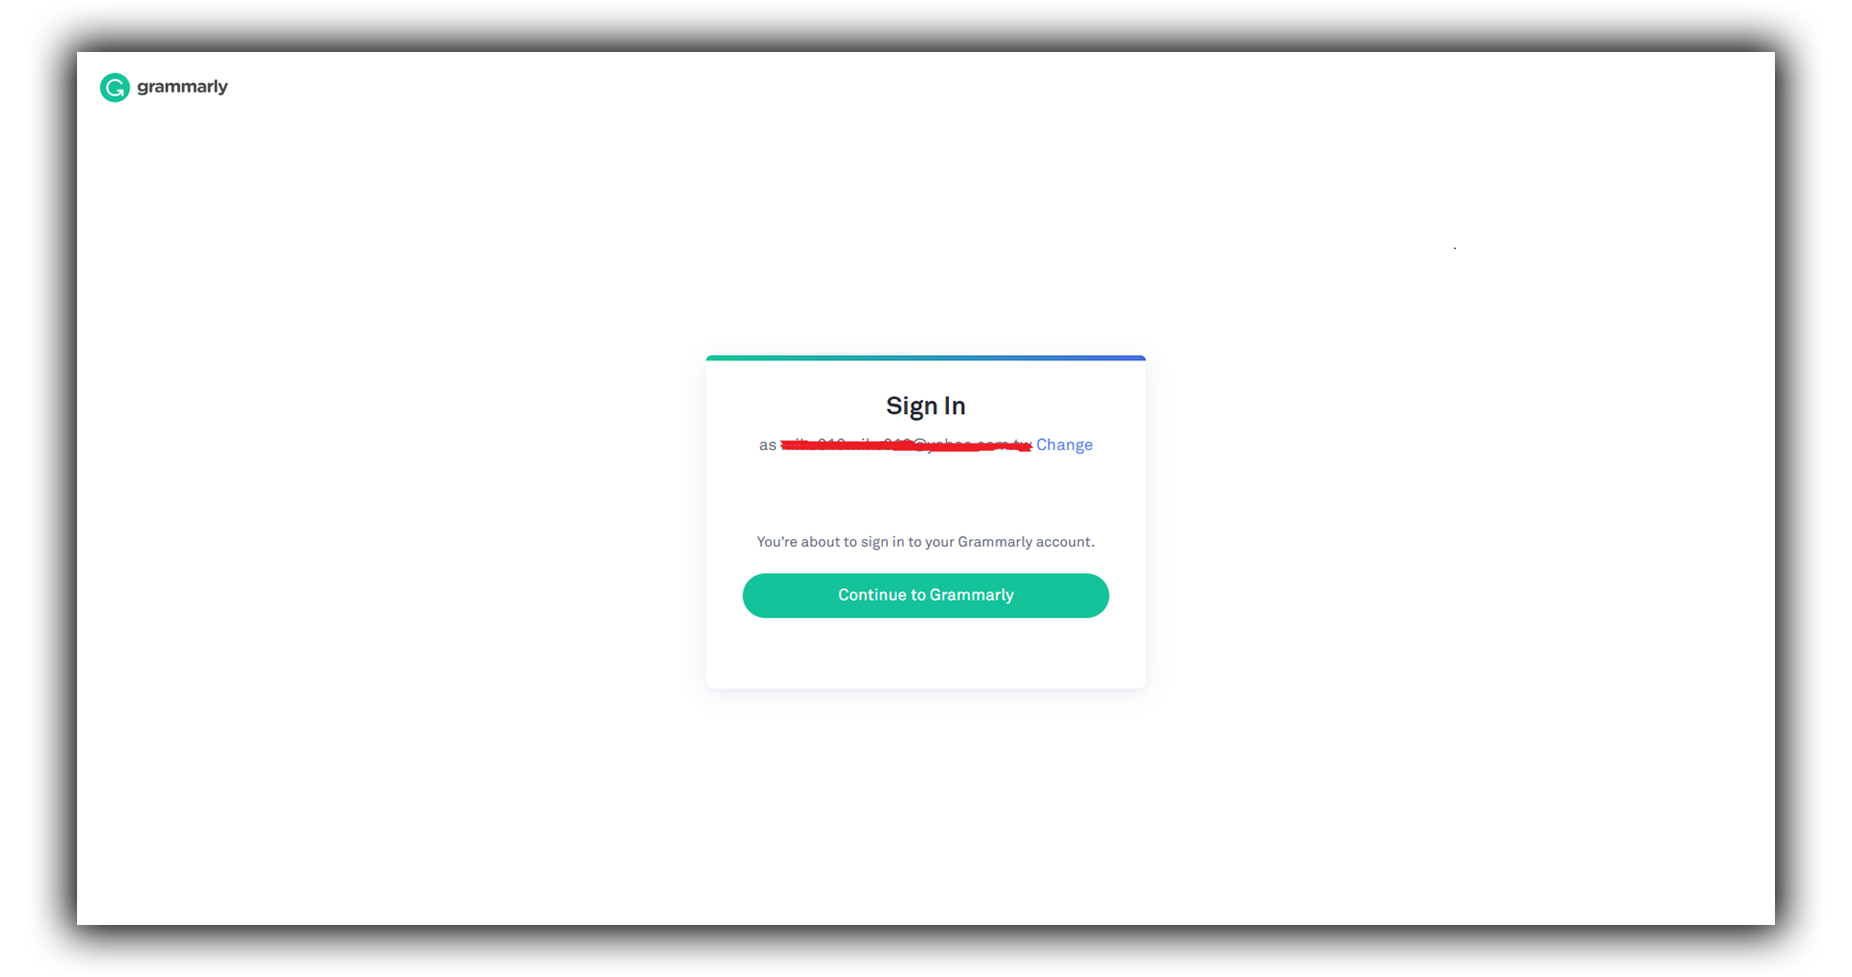
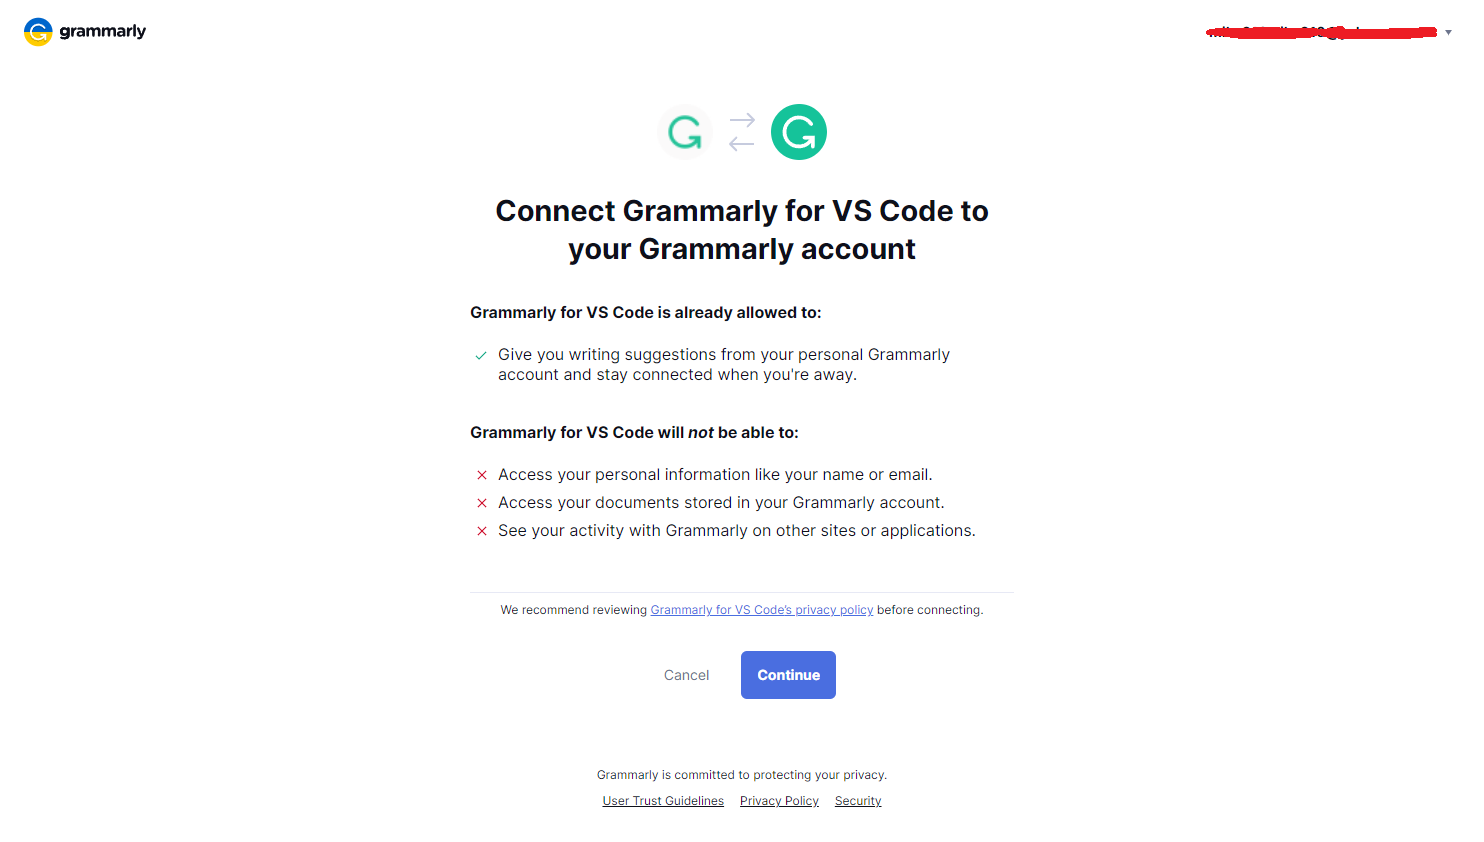
Add login/logout commands back (#34)
* Implement login

* Update doc

* Update screenshot

* Update screenshot

* doc

* doc

* update img

* update screenshot

* impls commands

* doc

* Add obs

diff --git a/README.md b/README.md
@@ -19,6 +19,10 @@
     - [📇 Commands](#📇-commands)
     - [🔧 Configuration](#🔧-configuration)
     - [📝 Roadmap](#📝-roadmap)
+    - [💸 Using a Paid Grammarly Account](#💸-using-a-paid-grammarly-account)
+        - [🔍 Method 1: Login with VSCode (easier)](#🔍-method-1-login-with-vscode-easier)
+        - [🔍 Method 2: Login with Emacs (a bit complicated)](#🔍-method-2-login-with-emacs-a-bit-complicated)
+        - [Authentication from Grammarly website](#authentication-from-grammarly-website)
     - [Contribute](#contribute)
 
 <!-- markdown-toc end -->
@@ -35,18 +39,20 @@
 
 ## 📇 Commands
 
-> ⚠ We are moving to the newer grammarly-language-server that uses the official
+> ⚠ Warning
+> 
+> We are moving to the newer grammarly-language-server that uses the official
 > API. Some features are disabled for now, but we will later add them back.
 
 List of commands interact with `language server` and `Grammarly.com`.
 
-| Commands                    | Description                                                                  |
-|:----------------------------|:-----------------------------------------------------------------------------|
-| lsp-grammarly-login         | Login to Grammarly.com                                                       |
-| lsp-grammarly-logout        | Logout from Grammarly.com                                                    |
-| lsp-grammarly-check-grammar | Start grammarly check for currnet document (buffer)                          |
-| lsp-grammarly-stop          | Stop grammarly checker from current document (buffer)                        |
-| lsp-grammarly-stats         | Log out current document status, `score`, `readability`, `words count`, etc. |
+| Commands             | Description                                                                  |
+|:---------------------|:-----------------------------------------------------------------------------|
+| lsp-grammarly-login  | Login to Grammarly.com                                                       |
+| lsp-grammarly-logout | Logout from Grammarly.com                                                    |
+| lsp-grammarly-resume | Start grammarly check for currnet document (buffer)                          |
+| lsp-grammarly-pause  | Stop grammarly checker from current document (buffer)                        |
+| lsp-grammarly-stats  | Log out current document status, `score`, `readability`, `words count`, etc. |
 
 ## 🔧 Configuration
 
@@ -94,6 +100,66 @@ List of todos, but I have not got time to implement these features.
 
 - [ ] Create another package that displays information from [Grammarly.com](https://www.grammarly.com/)
 (To display useful information, `score`, `readability`, `word counts`, etc).
+
+## 💸 Using a Paid Grammarly Account
+
+You can either login with [vscode-grammarly](https://marketplace.visualstudio.com/items?itemName=znck.grammarly)
+using VSCode or hit `M-x lsp-grammarly-login`. They both share the same credentials
+so you can login with either side.
+
+### 🔍 Method 1: Login with VSCode (easier)
+
+Install VSCode and install extension [vscode-grammarly](https://marketplace.visualstudio.com/items?itemName=znck.grammarly)
+from the extension panel.
+
+<p align="center"><img src="./etc/login/vscode-grammarly-extension.png"/></p>
+
+Then call command palette (default to <kbd>Ctrl</kbd>+<kbd>Shift</kbd>+<kbd>p</kbd>)
+and type to search `grammarly login` command.
+
+<p align="center"><img src="./etc/login/vscode-grammarly-login.png"/></p>
+
+You should see [Grammarly Website](#authentication-from-grammarly-website) and
+login with your Grammarly account.
+
+<p align="center"><img src="./etc/login/open-app-vscode.png"/></p>
+
+🎉 Make sure you click on the button `Open Visual Studio Code`. Done! You
+can now close VSCode and go back to Emacs!
+
+### 🔍 Method 2: Login with Emacs (a bit complicated)
+
+> ⚠ Warning
+> 
+> This method is no longer working with the new language server and currently
+> WIP, please login with VSCode!
+
+Hit `M-x lsp-grammarly-login` and you should see the Grammarly's website pop out
+from your favorite browser. See below [screenshot](#authentication-from-grammarly-website),
+
+After login, click the button `Open URL:vscode`, If you have VSCode installed, then
+this button would be `Open Visual Studio Code` instead yet it doesn't matter.
+
+<p align="center"><img src="./etc/login/open-url-vscode.png"/></p>
+
+Then click <kbd>F12</kbd> to open the DevTool window. You should able to see
+an URI like the following
+
+<p align="center"><img src="./etc/login/external-handler.png"/></p>
+
+Copy and paste the URI back to Emacs and hit return.
+
+<p align="center"><img src="./etc/login/emacs-paste.png"/></p>
+
+
+🎉 Done! Now you should be loggin!
+
+### Authentication from Grammarly website
+
+Login with your Grammarly account (This step does not require VSCode to be
+installed)!
+
+<p align="center"><img src="./etc/login/grammarly-website.png"/></p>
 
 ## Contribute
 
